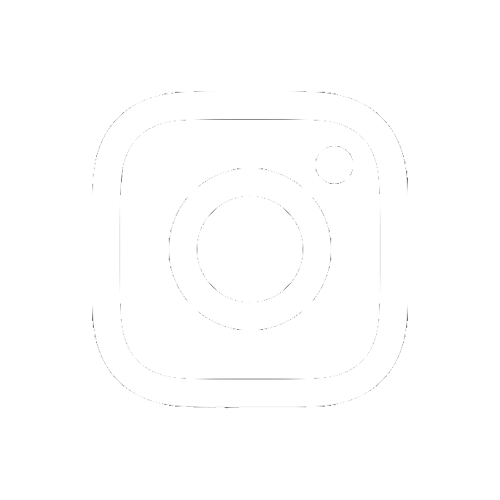
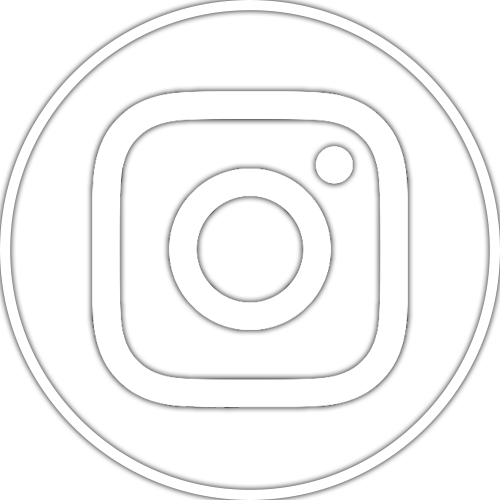
Updating social media pics

diff --git a/Gallery.html b/Gallery.html
@@ -33,7 +33,7 @@
 		<h1 id="title">Social Media & Gallery</h1>	
 		<p>Follow us on <a id="links" href="https://www.snapchat.com/l/en-gb/">Snapchat</a>, <a id="links" href="https://www.facebook.com/">Facebook</a>, <a id="links" href="https://twitter.com/">Twitter</a> & <a id="links" href="https://www.instagram.com/">Instagram</a> for daily updates on our projects and achievements towards a cleaner planet.</p>
 		
-		<img src="./Images/Snapchatpng.png" width="70" height="70"><img  src="./Images/Facebookpng.png" width="70" height="70"><img  src="./Images/Twitterpng.png" width="70" height="70"><img  src="./Images/instapng.png" width="70" height="70">
+		<img src="./Images/Snapchatpnggreen.png" width="70" height="70"><img  src="./Images/Facebookpnggreen.png" width="70" height="70"><img  src="./Images/Twitterpnggreen.png" width="70" height="70"><img  src="./Images/instapnggreen.png" width="70" height="70">
 		<br></br>
 		
 		<p>With big social media outlets such as YouTube influencing people to go green and keep the future of the world in mind.</p>
